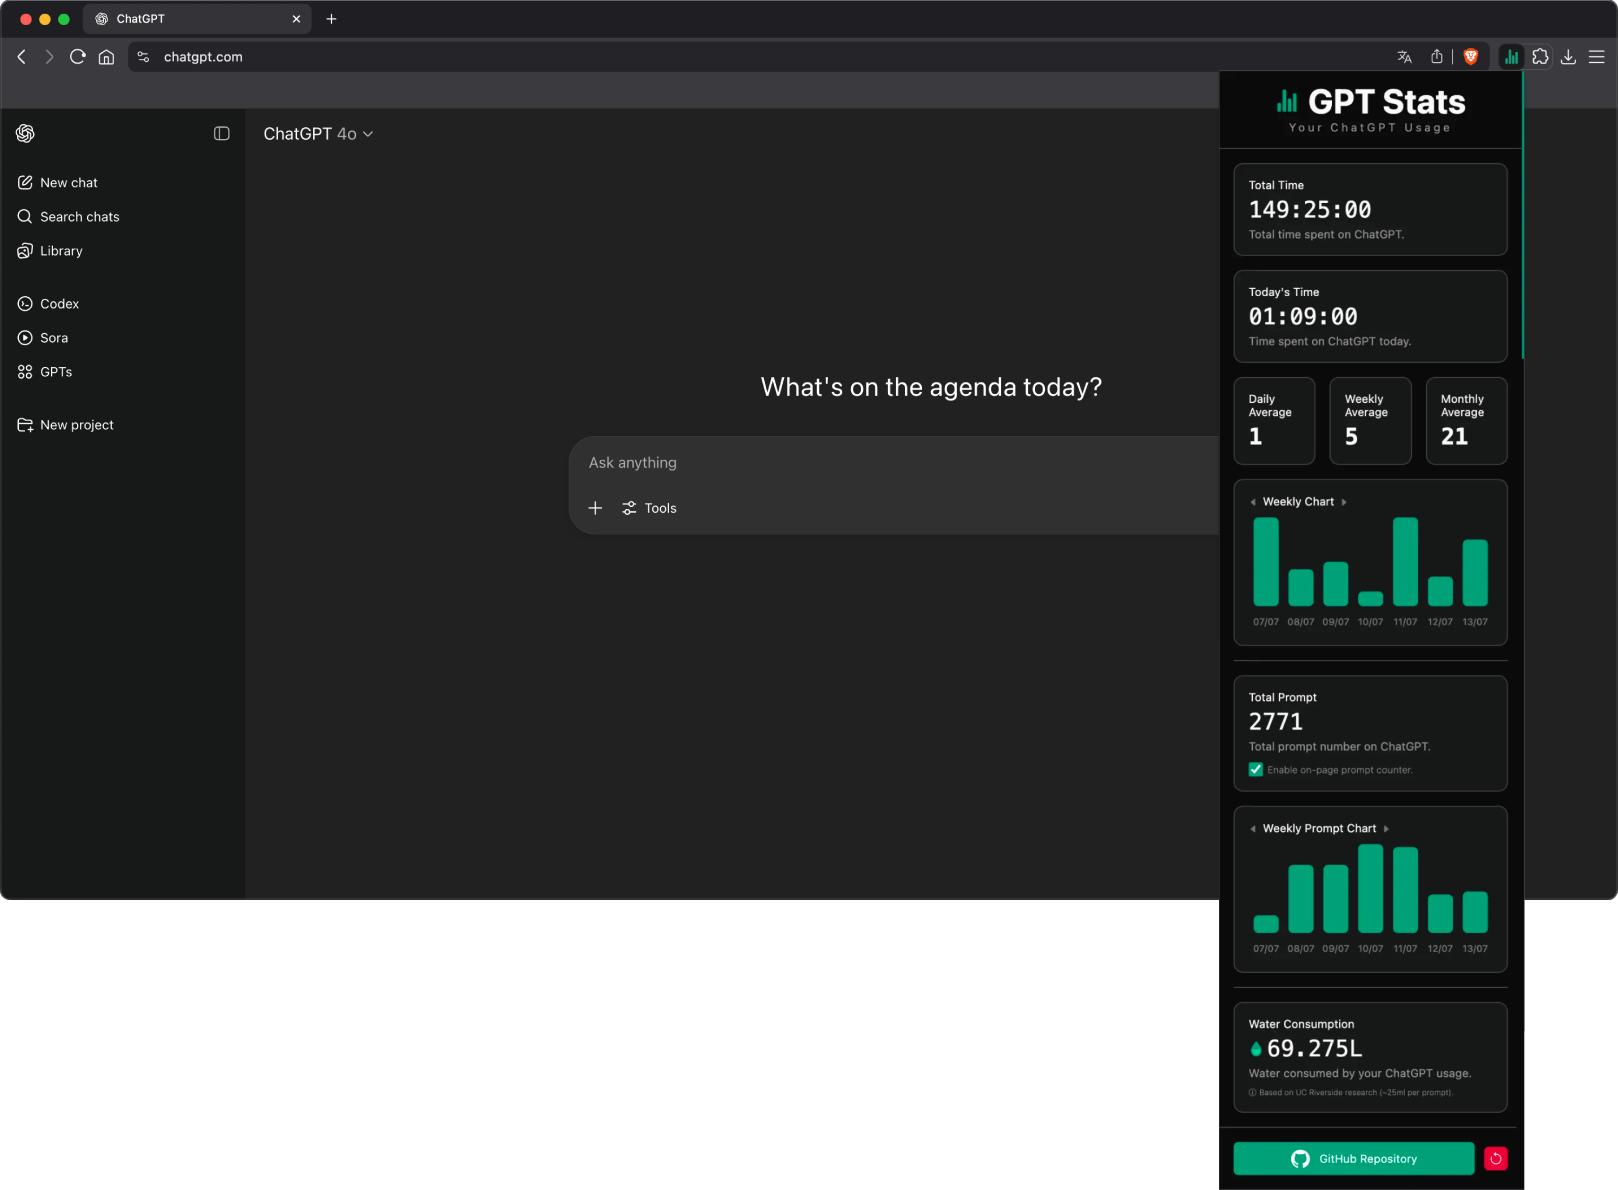
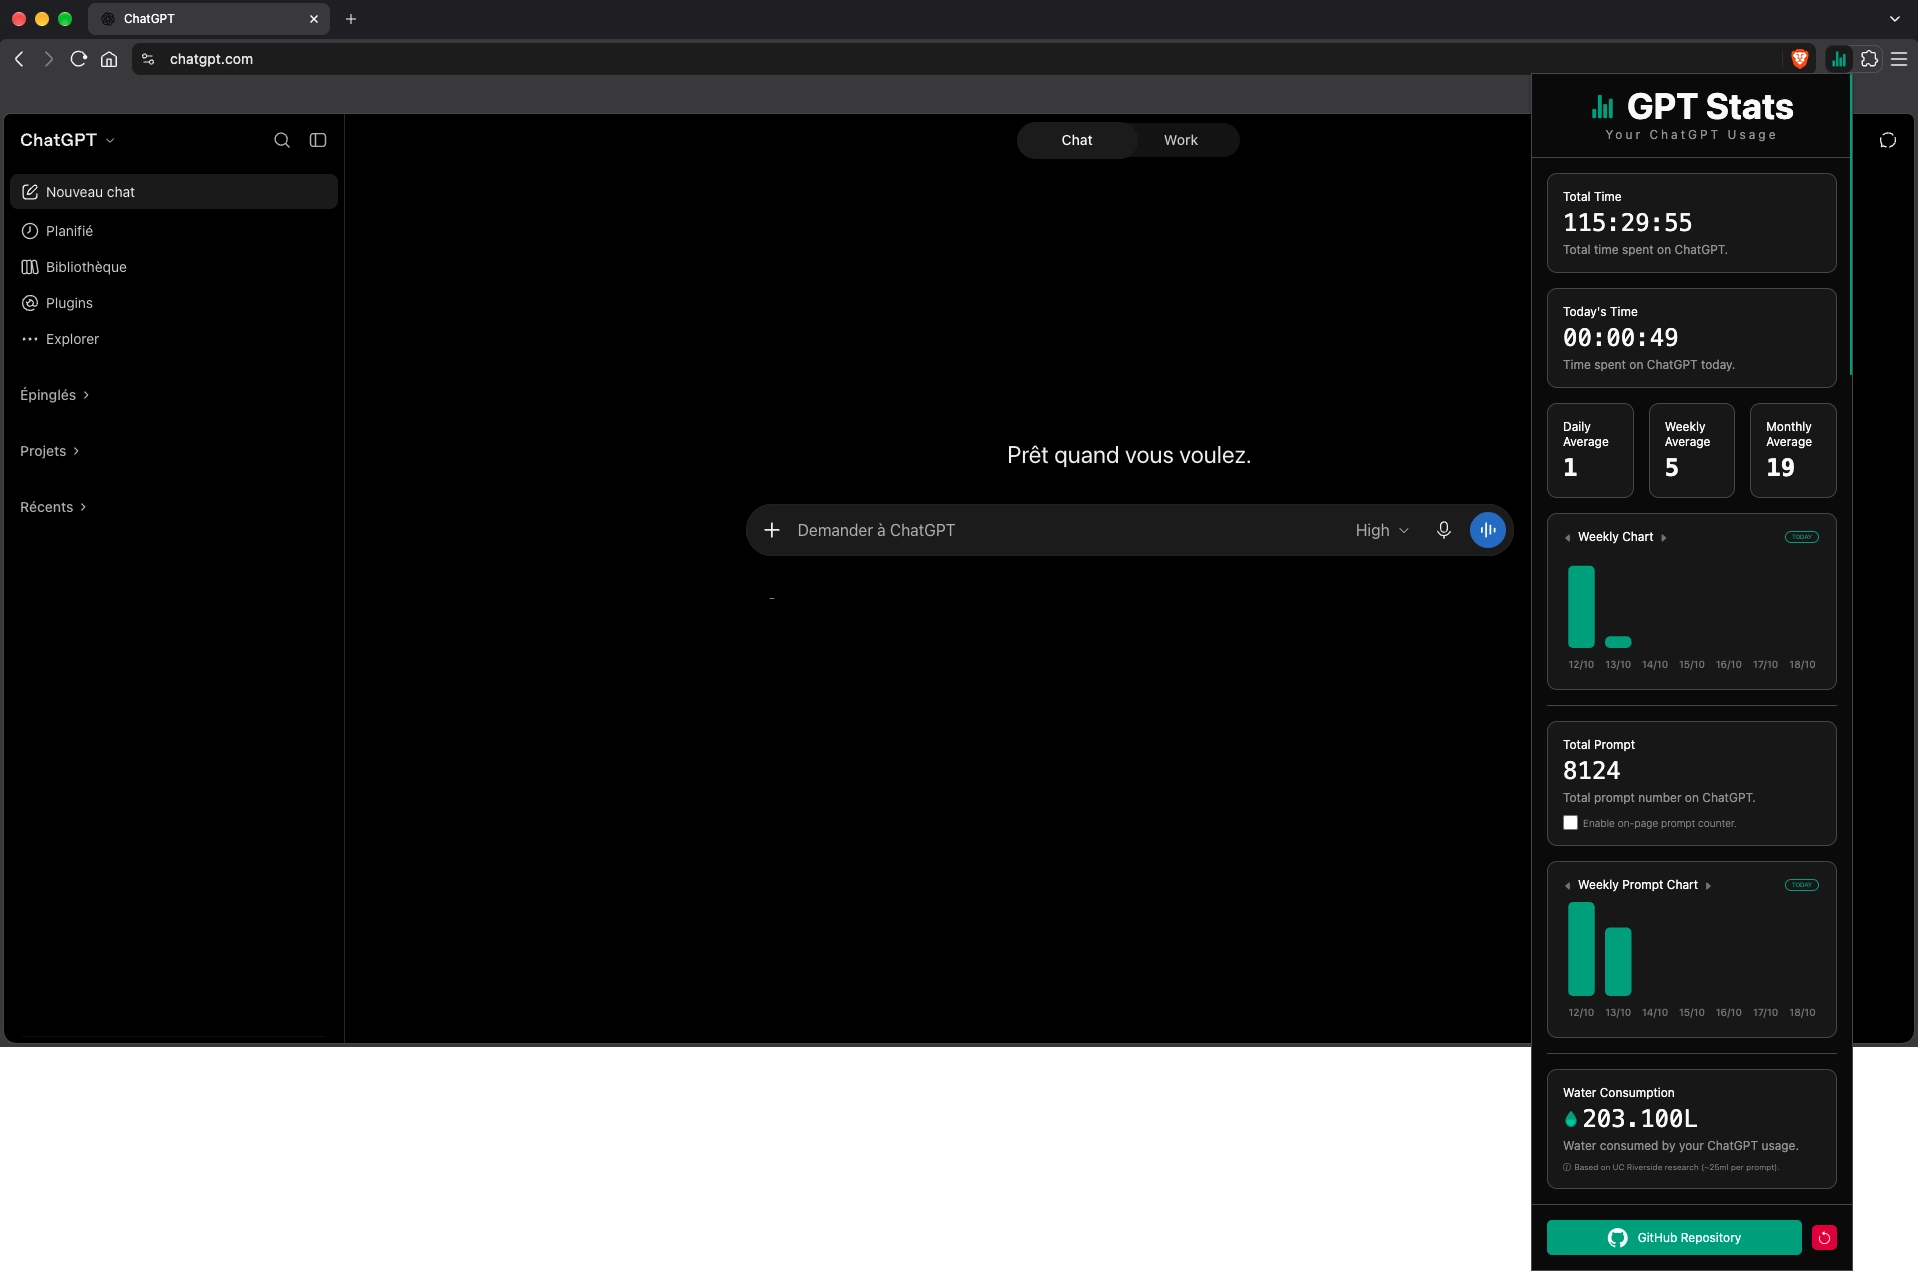
Update screenshots in the README.md file.

diff --git a/README.md b/README.md
@@ -147,4 +147,7 @@ You can also install the Chrome extension directly from the Chrome Web Store by 
 ## Author(s)
 
 **Fabien CHAVONET**
-- GitHub: [@fchavonet](https://github.com/fchavonet)
+- [GitHub](https://github.com/fchavonet)
+- [itch.io](https://fchavonet.itch.io/)
+- [LinkedIn](https://www.linkedin.com/in/fchavonet/)
+- [Portfolio](https://www.fchavonet.dev)
